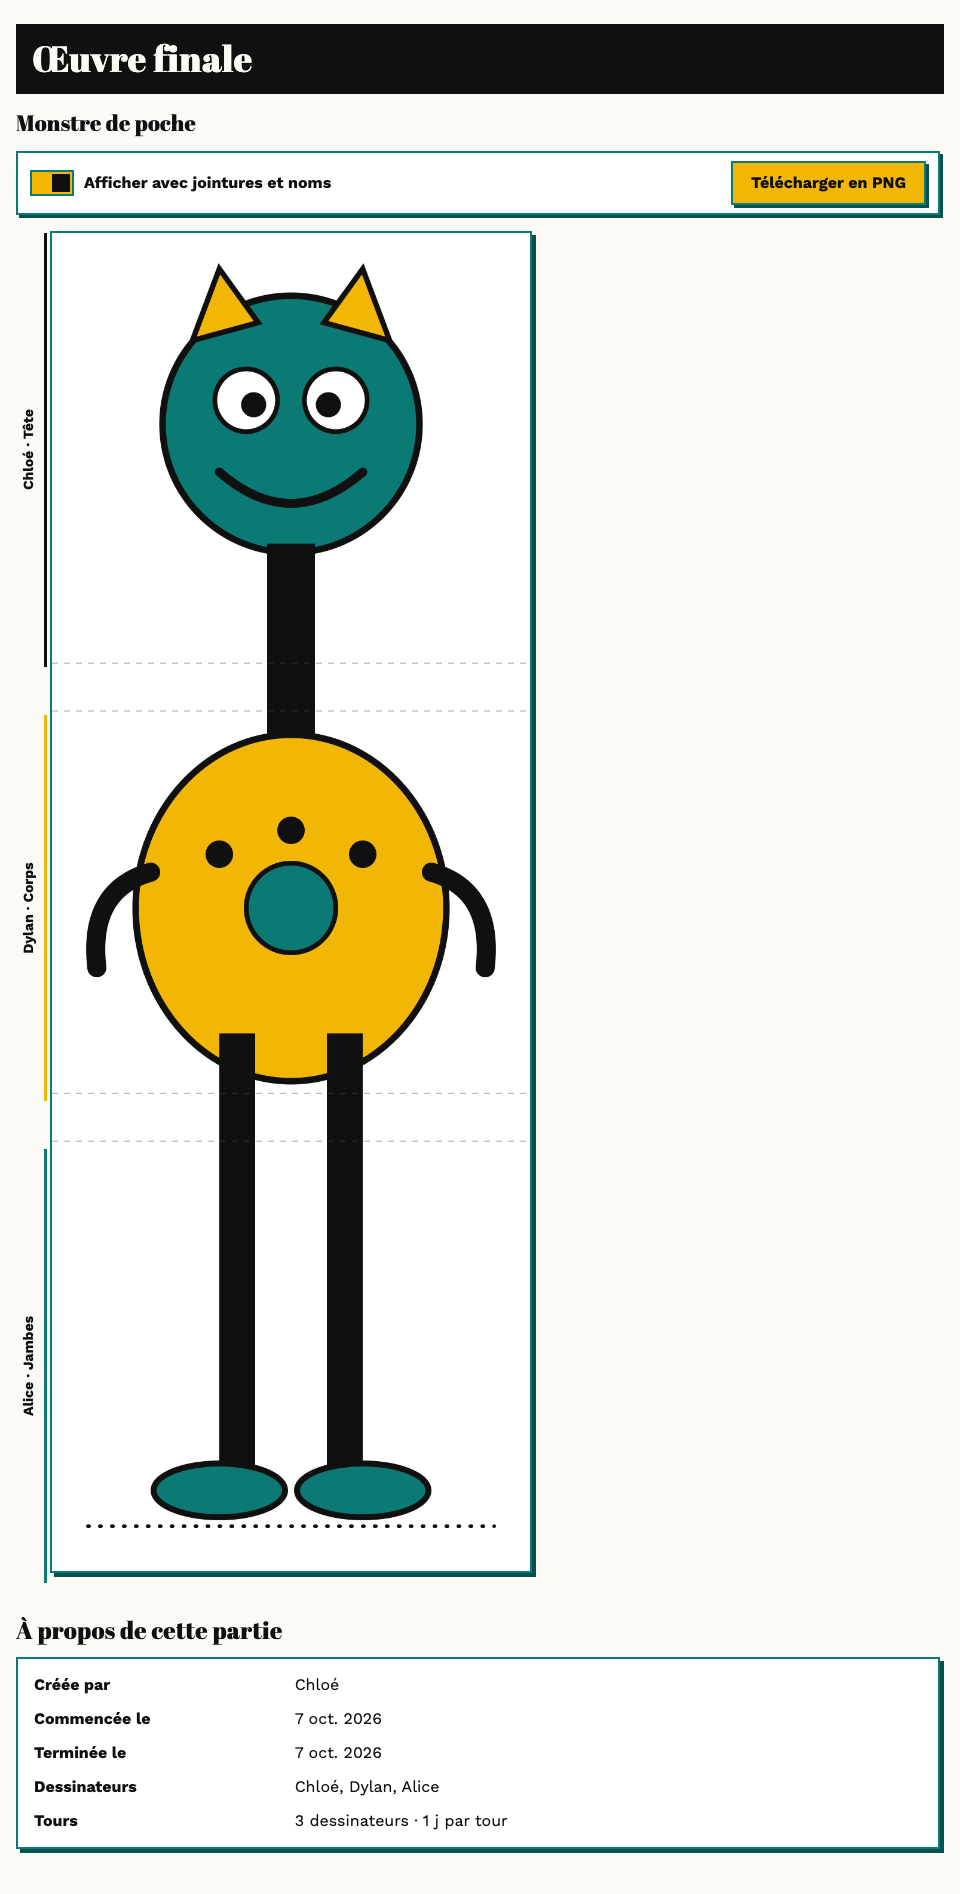
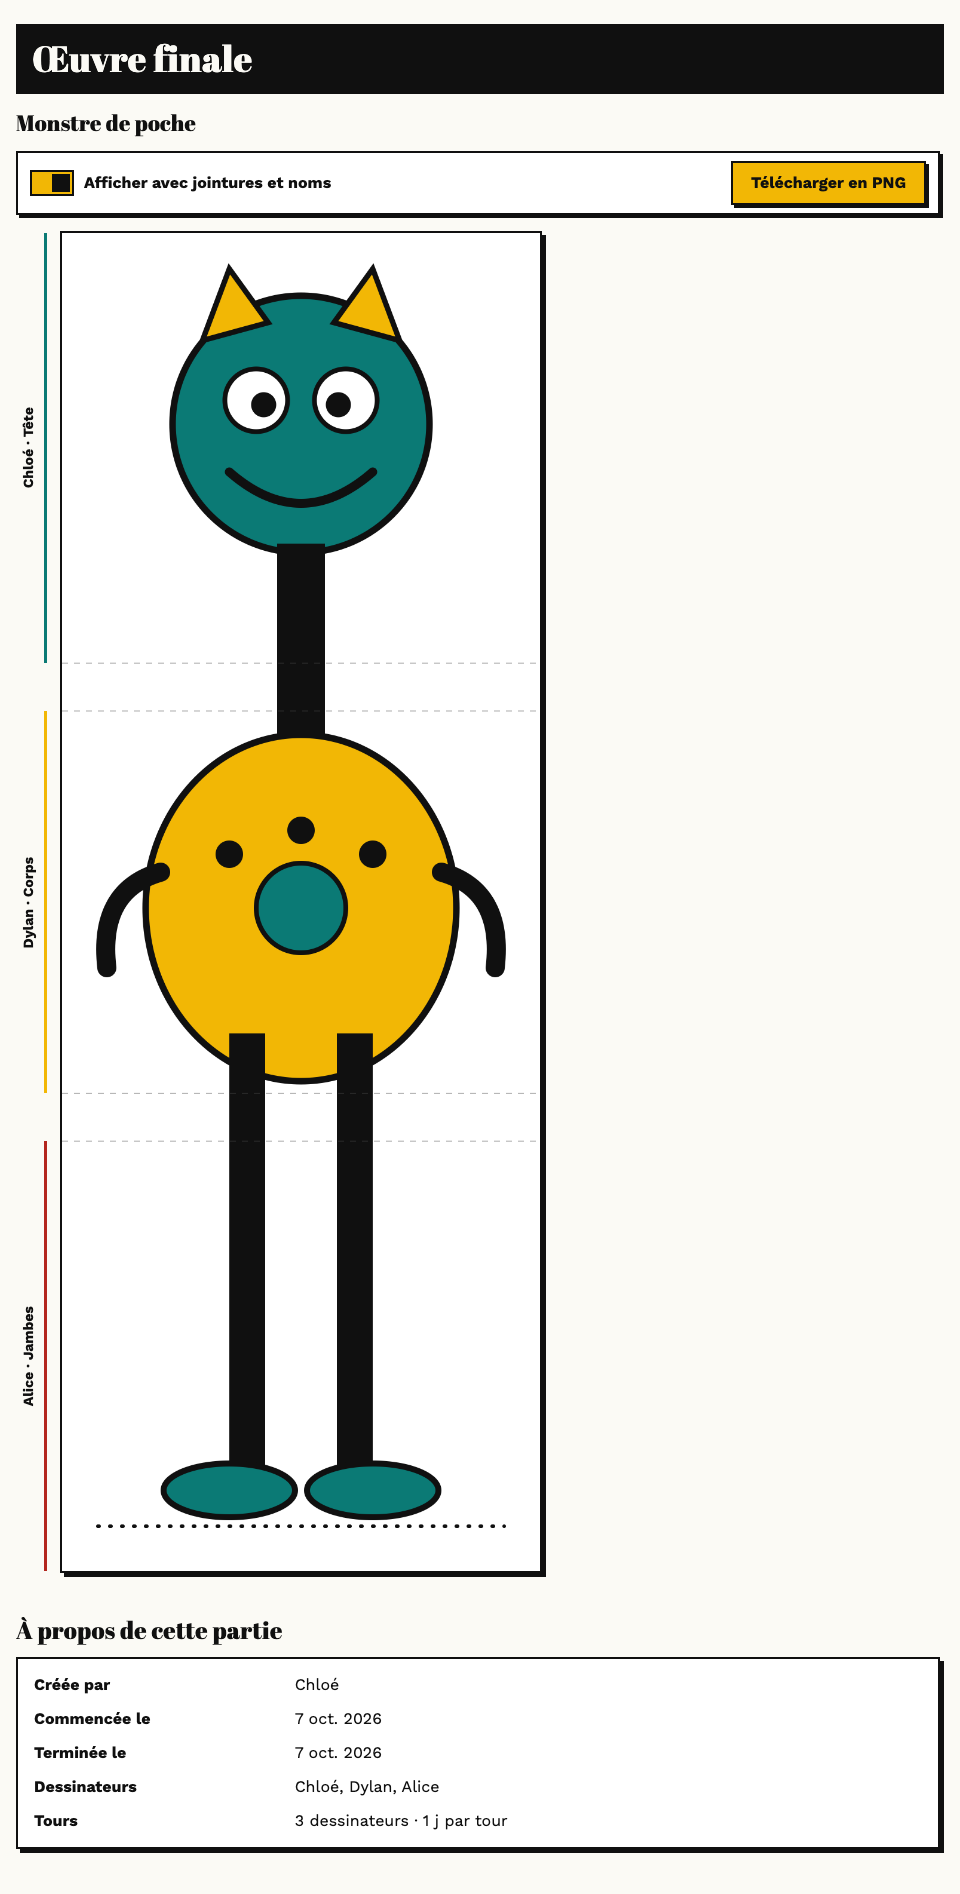
fix: cadres noirs, lignes des auteurs en couleur et alignées, langue en toutes lettres, plus de doublon du nombre de participants

diff --git a/src/app/globals.css b/src/app/globals.css
@@ -1,10 +1,10 @@
 /* Manifeste : jetons de design (voir docs/design/manifeste.md). Thème clair uniquement. */
 :root {
   color-scheme: light;
-  --bg:#FBFAF5; --surface:#FFFFFF; --fg:#101010; --muted:#4C4C4C; --line:#0B7A75;
+  --bg:#FBFAF5; --surface:#FFFFFF; --fg:#101010; --muted:#4C4C4C; --line:#101010;
   --accent:#F2B705; --on-accent:#101010; --accent2:#0B7A75; --on-accent2:#FFFFFF;
   --ok:#0B7A75; --hl:#FFE58A; --dim:#9B9B94; --dim-text:#6B6B64; --danger:#B3261E;
-  --radius:0; --shadow-btn:3px 3px 0 #08504D; --shadow-card:4px 4px 0 #08504D;
+  --radius:0; --shadow-btn:3px 3px 0 #101010; --shadow-card:4px 4px 0 #101010;
   --font-display-stack:var(--font-display), "Abril Fatface", Georgia, serif;
   --font-body-stack:var(--font-body), "Work Sans", system-ui, sans-serif;
   --tabbar-h:56px;
@@ -105,11 +105,11 @@ main ul > li { padding:10px 2px; border-bottom:2px solid var(--line); }
 
 .tabbar {
   position:fixed; z-index:20; left:0; right:0; bottom:0; display:grid; grid-template-columns:repeat(4, 1fr);
-  background:var(--bg); border-top:3px solid var(--line); padding-bottom:env(safe-area-inset-bottom, 0px);
+  background:var(--bg); border-top:3px solid var(--fg); padding-bottom:env(safe-area-inset-bottom, 0px);
 }
 .tab {
   position:relative; display:flex; align-items:center; justify-content:center; gap:4px; min-height:var(--tabbar-h); width:100%; padding:6px 2px;
-  border:0; border-right:2px solid var(--line); border-radius:0; background:transparent; color:var(--fg); box-shadow:none;
+  border:0; border-right:1px solid var(--fg); border-radius:0; background:transparent; color:var(--fg); box-shadow:none;
   font:inherit; font-size:12px; font-weight:700; letter-spacing:.05em; text-transform:uppercase; text-decoration:none; transition:none;
 }
 .tabbar > :last-child .tab { border-right:0; }
@@ -188,13 +188,13 @@ main ul > li { padding:10px 2px; border-bottom:2px solid var(--line); }
 .final-info { margin-top:28px; }
 p.meta { margin:4px 0 0; }
 .final-name { margin:0 0 16px; font-size:22px; }
-.final-art { margin:0 4px 12px 0; border:2px solid var(--line); background:var(--surface); box-shadow:var(--shadow-card); }
+.final-art { margin:0 4px 0 0; border:2px solid var(--line); background:var(--surface); box-shadow:var(--shadow-card); }
 .final-authors { margin-top:8px; }
 
 /* Texte final : une barre verticale pleine (noir / moutarde / canard, puis neutres) portant le nom de l'auteur.
    Chaque couple fond / texte du nom respecte 4,5:1. */
 :root {
-  --a0:#101010; --on-a0:#FFFFFF; --a1:#F2B705; --on-a1:#101010; --a2:#0B7A75; --on-a2:#FFFFFF; --a3:#4C4C4C; --on-a3:#FFFFFF;
+  --a0:#0B7A75; --on-a0:#FFFFFF; --a1:#F2B705; --on-a1:#101010; --a2:#B3261E; --on-a2:#FFFFFF; --a3:#4C4C4C; --on-a3:#FFFFFF;
   --a4:#FFE58A; --on-a4:#101010; --a5:#08504D; --on-a5:#FFFFFF; --a6:#6B6B64; --on-a6:#FFFFFF; --a7:#D9D6C8; --on-a7:#101010;
 }
 .final-text { margin:16px 0; }
@@ -222,8 +222,8 @@ a.game-title:hover { text-decoration:underline; }
 .card-call .game-title { color:var(--on-accent2); }
 .meta { font-size:14px; color:var(--muted); }
 .card-call .meta { color:var(--on-accent2); }
-.card-call .pill.call { background:#fff; color:var(--fg); border-color:#fff; }
-.card-call .btn, .card-call button { border-color:#fff; }
+.card-call .pill.call { background:#fff; color:var(--fg); border-color:var(--fg); }
+.card-call .btn, .card-call button { border-color:var(--fg); }
 .card-call .error { color:#fff; background:var(--danger); padding:2px 6px; }
 .game-action { margin-top:10px; }
 /* Smartphone : les actions passent en bas de la carte, alignées à droite et côte à côte (le temps restant dessous). */
@@ -295,7 +295,7 @@ blockquote.quote { margin:0 0 4px; padding:10px 14px; border:2px solid var(--lin
 /* Avis de temps écoulé et fenêtre de validation */
 .expired-notice { display:flex; flex-wrap:wrap; align-items:center; justify-content:space-between; gap:8px 12px; margin:0 0 20px; box-shadow:var(--shadow-btn); }
 .dialog-backdrop { position:fixed; inset:0; background:rgba(16,16,16,.6); display:grid; place-items:center; z-index:1000; }
-.dialog { width:calc(100% - 32px); max-width:440px; max-height:calc(100% - 32px); overflow-y:auto; padding:24px; background:var(--bg); color:var(--fg); border:3px solid var(--line); border-radius:0; box-shadow:8px 8px 0 #08504D; }
+.dialog { width:calc(100% - 32px); max-width:440px; max-height:calc(100% - 32px); overflow-y:auto; padding:24px; background:var(--bg); color:var(--fg); border:3px solid var(--line); border-radius:0; box-shadow:8px 8px 0 var(--line); }
 .dialog-title { margin:0 0 12px; font-size:24px; }
 .dialog-timer { font-weight:700; }
 .dialog-actions { display:flex; flex-wrap:wrap; gap:10px; margin-top:16px; }

diff --git a/src/components/FinalViewer.tsx b/src/components/FinalViewer.tsx
@@ -112,7 +112,7 @@ export function FinalViewer({ gameId, direction, width, height, joints, segments
   const rail = showGuides && (
     <div
       data-testid="names-rail"
-      style={down ? { position: "relative", width: 34, flex: "none" } : { position: "relative", height: 30 }}
+      style={down ? { position: "relative", width: 34, flex: "none" } : { position: "relative", height: 30, flex: "none" }}
     >
       {/* Aligné sur l'image : le cadre de l'œuvre (bordure de 2 px) est à côté, les noms restent en dehors. */}
       <div style={{ position: "absolute", inset: down ? "2px 0" : "0 2px" }}>
@@ -186,8 +186,8 @@ export function FinalViewer({ gameId, direction, width, height, joints, segments
         <button type="button" onClick={download} disabled={busy}>Télécharger en PNG</button>
       </div>
       {message && <p role="alert" className="notice error">{message}</p>}
-      <div data-testid="final-scroll" style={{ maxWidth: down ? 520 : "100%", overflowX: "auto", paddingBottom: 4 }}>
-        <div data-testid="final-frame" style={{ minWidth: minPx, display: "flex", flexDirection: down ? "row" : "column", alignItems: "stretch" }}>
+      <div data-testid="final-scroll" style={{ maxWidth: down ? 530 : "100%", overflowX: "auto", paddingBottom: 16 }}>
+        <div data-testid="final-frame" style={{ minWidth: minPx, display: "flex", flexDirection: down ? "row" : "column", alignItems: "stretch", gap: down ? 10 : 8 }}>
           {rail}
           {image}
         </div>

diff --git a/src/components/GameMeta.tsx b/src/components/GameMeta.tsx
@@ -14,7 +14,7 @@ type MetaProps = {
 
 /**
  * Informations d'une partie, identiques dans toutes les listes : type (feuille ou pinceau), nombre de joueurs suivi d'un
- * personnage, durée, langue (drapeau et code), créateur. Chaque icône est monochrome et porte un libellé accessible.
+ * personnage, durée, langue, créateur. Chaque icône est monochrome et porte un libellé accessible.
  */
 export function GameMetaItems({ type, turns, turnDurationSeconds, language, creatorName, extra }: MetaProps) {
   const items: ReactNode[] = [
@@ -23,7 +23,7 @@ export function GameMetaItems({ type, turns, turnDurationSeconds, language, crea
       {turns} <Icon name="person" label={participantsLabel(type, turns).replace(/^\d+ /, "")} />
     </Fragment>,
     `${formatDuration(turnDurationSeconds)} par tour`,
-    ...(type === "text" && language ? [<span key="lang" title={languageLabel(language)}><Icon name="flag" label={languageLabel(language)} /> {language.toUpperCase()}</span>] : []),
+    ...(type === "text" && language ? [languageLabel(language)] : []),
     ...(creatorName ? [`par ${creatorName}`] : []),
     ...(extra ?? []),
   ];

diff --git a/src/components/GameList.tsx b/src/components/GameList.tsx
@@ -36,7 +36,7 @@ export function PastGameList({ games }: { games: PastGame[] }) {
                 turnDurationSeconds={g.turnDurationSeconds}
                 language={g.language}
                 creatorName={g.creatorName}
-                extra={[`${g.participantCount} participant${g.participantCount > 1 ? "s" : ""}`, g.status === "completed" && g.completedAt ? `terminée le ${formatDate(g.completedAt)}` : `commencée le ${formatDate(g.createdAt)}`]}
+                extra={[g.status === "completed" && g.completedAt ? `terminée le ${formatDate(g.completedAt)}` : `commencée le ${formatDate(g.createdAt)}`]}
               />
             </div>
           </Card>

diff --git a/src/lib/images/export-layout.ts b/src/lib/images/export-layout.ts
@@ -3,7 +3,7 @@ import type { Direction, Joint } from "./geometry";
 /** Épaisseur (en pixels de l'image) de la marge des noms ajoutée à gauche (down) ou au-dessus (right). */
 export const RAIL_SIZE = 140;
 export const LABEL_FONT_SIZE = 40;
-export const RAIL_COLORS = ["#101010", "#F2B705", "#0B7A75", "#6B6B64", "#08504D", "#8A6A00", "#B3261E", "#A0A096"];
+export const RAIL_COLORS = ["#0B7A75", "#F2B705", "#B3261E", "#08504D", "#8A6A00", "#6B6B64", "#A0A096", "#4C4C4C"];
 const LINE_INSET = 8;
 const LINE_OFFSET = 16; // distance de la ligne colorée au bord de l'image
 const LABEL_GAP = 14; // distance du texte à la ligne

diff --git a/src/components/ui/Icon.tsx b/src/components/ui/Icon.tsx
@@ -8,8 +8,6 @@ const PATHS: Record<string, ReactNode> = {
   drawing: <path d="M4 20c3 0 5-1 5-4l9-9-2-2-9 9c-3 0-3 3-3 6zM15 6l3 3" />,
   // Personnage : tête et épaules
   person: <path d="M12 4a3.5 3.5 0 1 0 0 7 3.5 3.5 0 0 0 0-7zM5 21v-2c0-3 3-5 7-5s7 2 7 5v2z" />,
-  // Drapeau à hampe
-  flag: <path d="M6 21V4M6 4h12l-3 4 3 4H6" />,
   // Haut-parleur (appel à participation)
   speaker: <path d="M4 9h4l6-5v16l-6-5H4zM17 9c1.5 1.5 1.5 4.5 0 6M20 6c3 3 3 9 0 12" />,
 };

diff --git a/docs/design/manifeste.md b/docs/design/manifeste.md
@@ -8,14 +8,14 @@ Affiche surréaliste des années 1920 : aplats, bordures noires de 2 px, ombres 
 |---|---|---|
 | `--bg` / `--surface` | `#FBFAF5` / `#FFFFFF` | fond de page / cartes, champs |
 | `--fg` / `--muted` | `#101010` / `#4C4C4C` | texte / texte secondaire (4,5:1 minimum) |
-| `--line` | `#0B7A75` | toutes les bordures (2 px) : aucune ligne noire |
+| `--line` | `#101010` | toutes les bordures (2 px) ; les lignes de repérage des auteurs (rail) sont en couleur, jamais noires |
 | `--accent` / `--on-accent` | `#F2B705` / `#101010` | action primaire, onglet actif ; texte noir uniquement |
 | `--accent2` / `--on-accent2` | `#0B7A75` / `#FFFFFF` | liens, pastilles, carte d'appel à participation |
 | `--ok` / `--danger` | `#0B7A75` / `#B3261E` | succès / erreur |
 | `--hl` | `#FFE58A` | surlignage du texte transmis |
 | `--dim` | `#9B9B94` | décor seulement (contraste insuffisant pour du texte) |
 | `--radius` | `0` | aucun arrondi (sauf pastilles) |
-| `--shadow-btn` / `--shadow-card` | `3px 3px 0 #08504D` / `4px 4px 0 #08504D` | ombres dures |
+| `--shadow-btn` / `--shadow-card` | `3px 3px 0 #101010` / `4px 4px 0 #101010` | ombres dures |
 
 Polices : Abril Fatface (`--font-display`, titres, repli Georgia) et Work Sans 400/500/700 (`--font-body`, repli system-ui), chargées par `next/font/google` (auto-hébergées au build, aucune requête externe à l'exécution).
 
